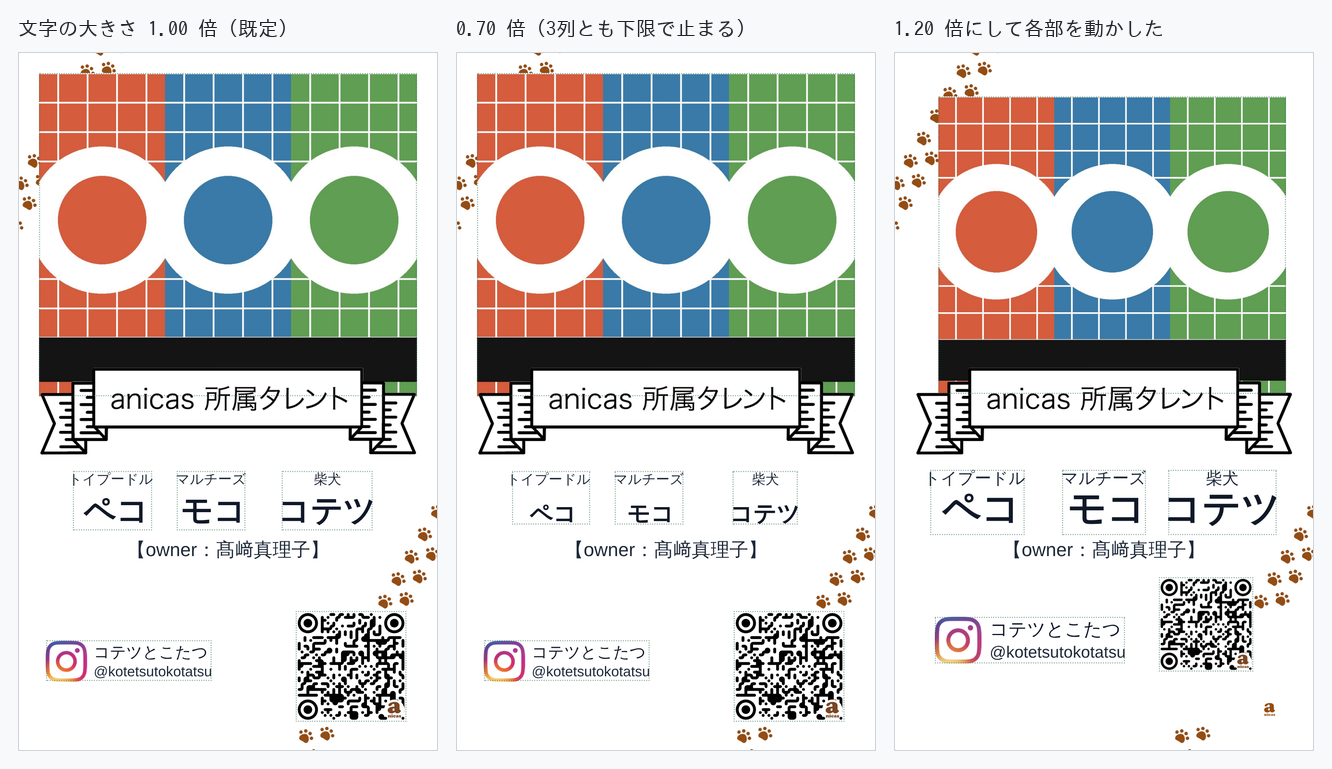
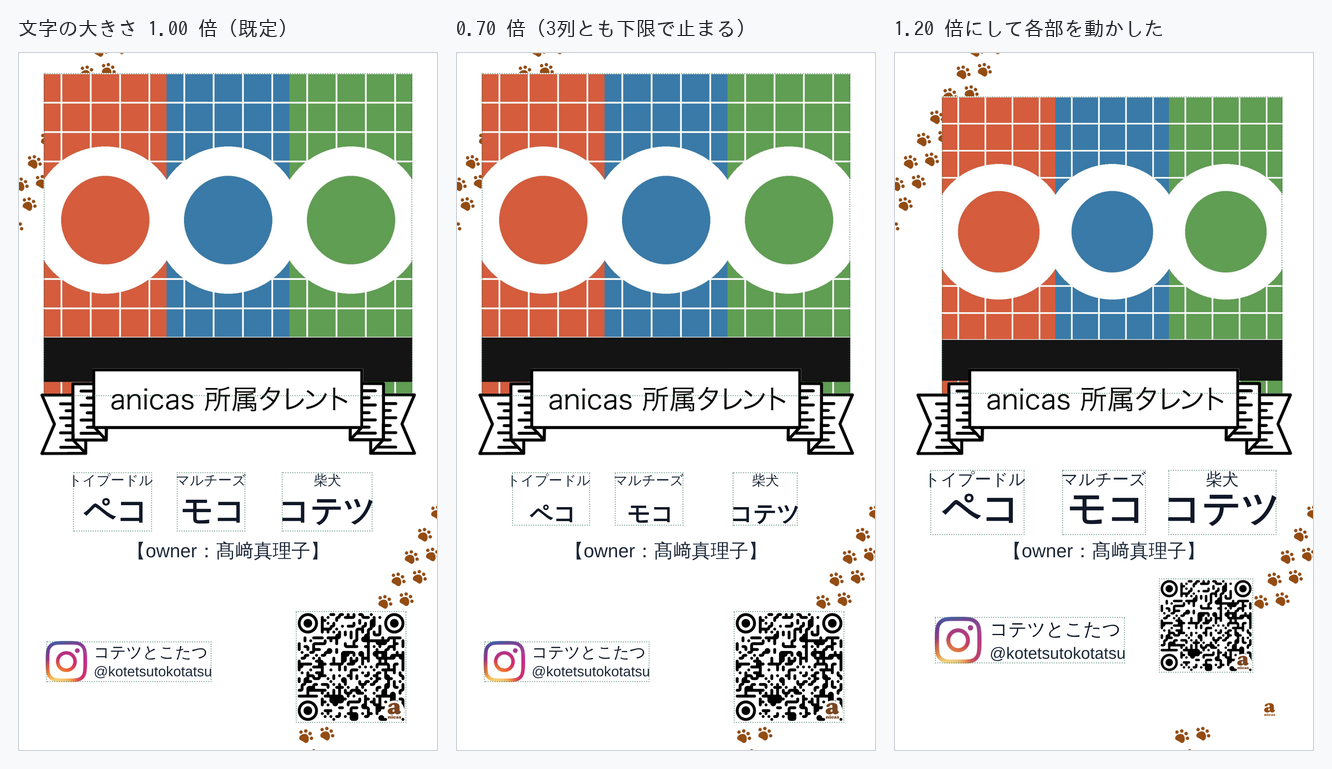
fix: 写真の窓の左右を、リボンが覆っている範囲まで狭める
下端を実物に合わせても、窓の左右がリボンより広いままだと角が残る。写真の左端は
2.750mm、リボンが覆い始めるのは 3.050mm で、その 0.30mm ぶんが角として見えていた。

/meishi-ribbon.png を写真の下端の高さで実測すると、856 行（＝写真の下端）は
px 58…989 ＝ 3.050〜52.003mm しか不透明でない。ひらひらは写真の下端の高さで
いちばん狭くなるので、そこが効く。LAYOUT.photo を left .05 → .06、width .90 → .88
（3.300〜51.700mm）にして、角がリボンの内側 0.25mm（左）／0.30mm（右）に入るよう
にした。上端・下端は動かさない。

実測（入稿PDFを1200dpiで描画、ひらひらが始まる行より下の色のついた画素を数える）:
既定の状態は 3パターンとも 0 画素（改修前は 16〜186 画素）。写真を最大・最下まで
動かした状態も、触っていないカードとの差が 3パターンとも 0 画素（改修前は
175〜353 画素）。

リボン・文字・QR は動いていない：写真の1命令を除いたページの配置命令は3パターン
とも完全一致、写真の箱の外の画素は（箱のふち1画素を除いて）0画素。

Claude-Session: https://claude.ai/code/session_019hQj9vxMcARJ96pZFj3xyV

diff --git a/lib/meishi-layout.ts b/lib/meishi-layout.ts
@@ -112,7 +112,7 @@ export const PAPER_COLOR = "#FFFFFF";
  *
  * Calibrated against the real reference card (public/sample-meishi.png,
  * 1070 × 1778). Measured landmarks (as a fraction of the card):
- *   photo slot              top .029, left .05, w .90, bottom .4924 (overlaps ribbon)
+ *   photo slot              top .029, left .06, w .88, bottom .4924 (overlaps ribbon)
  *   ribbon white band       top .45, box bottom .536 (tails reach ~.575)
  *   breed / name / owner    y ≈ .61 / .66 / .71
  *   Instagram icon          x ≈ .06–.16, y ≈ .84–.90 (drawn in the template)
@@ -137,12 +137,21 @@ export const PAPER_COLOR = "#FFFFFF";
  * sample row 872.5 — card height .49244, i.e. .4924 − .029 = .4634 of slot.
  * The old .471 put it .68 mm lower, which is what showed.
  *
+ * The slot's SIDES are then set by what the ribbon actually covers ON THAT
+ * ROW. Read off /meishi-ribbon.png, the tails are at their narrowest just
+ * where the photo ends: row 856 is opaque from px 58 to 989, i.e. 3.050 mm to
+ * 52.003 mm. A slot any wider than that leaves its bottom corners outside the
+ * ribbon however well its lower edge is placed — 0.30 mm of photo showed
+ * beside each tail at the old .05/.95. So the slot is inset to .06 / .94
+ * (3.300 … 51.700 mm), which keeps the corners 0.25 mm (left) and 0.30 mm
+ * (right) inside the ribbon.
+ *
  * `top`/`height` are fractions of the card HEIGHT; `left`/`right`/`width` are
  * fractions of the card WIDTH — exactly how CSS resolves them for an
  * absolutely positioned child, so the preview and the print file agree.
  */
 export const LAYOUT = {
-  photo: { top: 0.029, left: 0.05, width: 0.9, height: 0.4634 },
+  photo: { top: 0.029, left: 0.06, width: 0.88, height: 0.4634 },
   textBlock: { top: 0.6, left: 0.1, width: 0.8 },
   igBlock: { top: 0.845, left: 0.18, width: 0.46 },
   qr: { top: 0.8, right: 0.075, width: 0.265 },

diff --git a/README.md b/README.md
@@ -152,13 +152,19 @@ npm run dev
 列の下限は「最後に下限へ届く行」＝ふつうは名前が決める（`columnFloor`）。
 すでに詰め込みで下限を割っている行は、下限まで**押し上げない**——縮められないだけ。
 
-### 写真の窓は実物に合わせて測ってある
+### 写真の窓はリボンが覆う範囲から決めてある
 
-窓の下端は丸めた値ではなく、実物の名刺 `public/sample-meishi.png` から測った位置。
-写真の下端はリボンのひらひらが始まるところに乗っていなければならず、少しでも下だと
-ひらひらの外に square な角が残る。実物をテンプレートに重ねて（リボンの輪郭が両方に
-あるので、それで合わせる）読むと、実物の写真の下端はカード箱の **.49244**。
-`LAYOUT.photo` は `top .029 + height .4634 = .4924` でそこに合わせてある。
+窓の**下端**は丸めた値ではなく、実物の名刺 `public/sample-meishi.png` から測った位置。
+実物をテンプレートに重ねて（リボンの輪郭が両方にあるので、それで合わせる）読むと、
+実物の写真の下端はカード箱の **.49244**。`LAYOUT.photo` は
+`top .029 + height .4634 = .4924` でそこに合わせてある。
+
+窓の**左右**は、その下端の高さでリボンが実際に覆っている範囲から決めてある。
+`/meishi-ribbon.png` の 856 行（＝写真の下端）は px 58…989 ＝ **3.050〜52.003mm**
+しか不透明でない。窓がそれより広いと、下端をどこに置いても左右の角がリボンの外に
+残る（.05/.95 のときは片側 0.30mm 出ていた）。そこで窓を **.06 / .94
+（3.300〜51.700mm）** まで狭め、角がリボンの内側 0.25mm（左）／0.30mm（右）に
+入るようにしてある。
 
 ### 写真はデザインの窓の中にだけ描く
 
